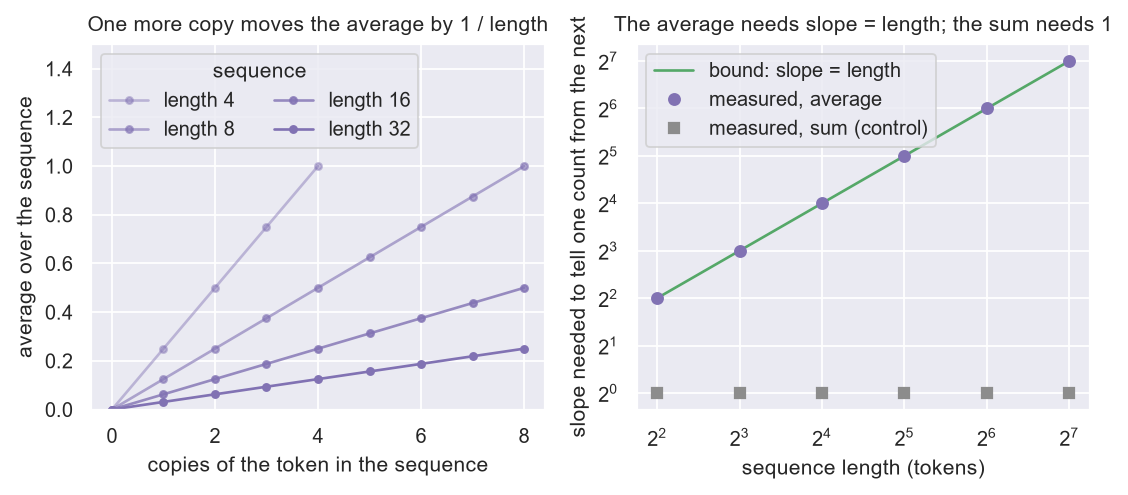
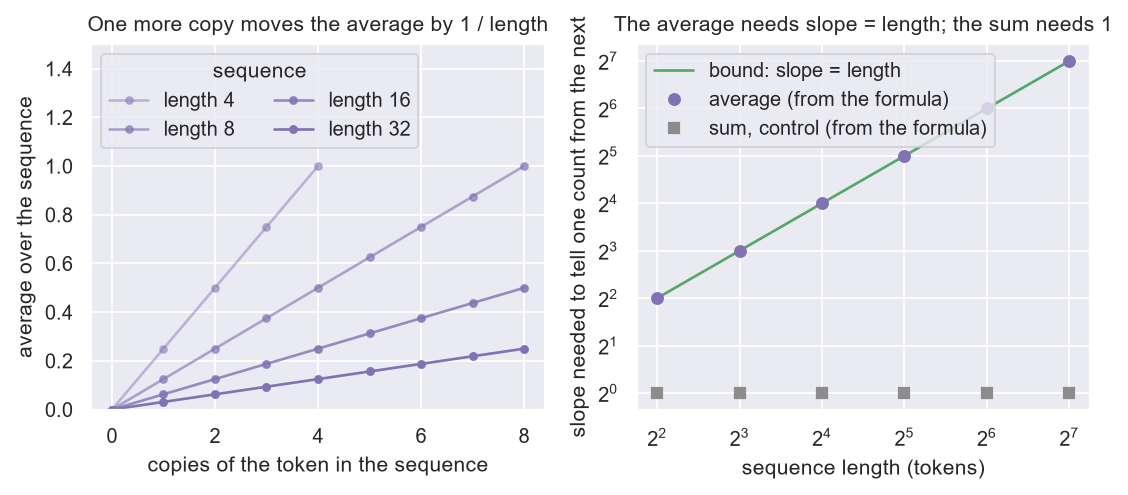
Chapter 41 notebook: audit against the new rules

Changed region(s): [[0.6206, 0.1818, 0.8998, 0.303], [0.8378, 0.0909, 0.8688, 0.1212]]

diff --git a/book/41-counting.md b/book/41-counting.md
@@ -169,26 +169,31 @@ step, and a model of limited slope can only round its corners.
 statements on small exact models, and one use of the third for an average
 over a sequence. It does not train anything. A read-out from 5 to 6 that is
 continuous said 5.5 in all four cases tried, at `fraction = 0.7071` for
-`5 + fraction²`; a read-out with a jump never came within 0.5 of it.
+`5 + fraction²`; a read-out with a jump never came within 0.500 of it.
 For the two hands, the ideal denoiser returned `(5.5, 1)` at every noise
 level from 0.1 to 10, and returned the midpoint in 200 random equidistant
-cases in 4 dimensions (largest error `4e-15`). Moved by 1 towards B, at
+cases in 4 dimensions (largest error 3.8e-15). Moved by 1 towards B, at
 noise level 1, the finger count became 5.9034, matching the
-`tanh` formula to `8e-16`. In 900 smooth models that say 5 and 6 at
+`tanh` formula to 7.8e-16. In 900 smooth models that say 5 and 6 at
 distances 0.2, 0.05 and 0.01, the largest slope times the distance was never
-below 1.16, and was exactly 1 for the straight line; for models that say 5
-and 5.5 the straight line gave 0.5, so the bound with gap 1 fails there, as
-it should.
+below 1.1649 (a straight line gives exactly 1, which holds by construction and is not
+evidence). For models that say 5 and 5.5 the smallest was 0.6649, below 1,
+so the bound with gap 1 fails there, as it should.
 
 For an average over a sequence of `length` tokens, one more copy of a
-token moves the average by `1 / length` and the slope needed to tell the
-counts apart is `length`: 4, 8, 16, 32, 64 and 128 for those lengths, all
-on the bound. A sum, the control, needs slope 1 at every length. **Measured**:
+token moves the average by `1 / length`, so by the formula the slope needed
+to tell the counts apart is `length` (4, 8, 16, 32, 64 and 128 for those
+lengths), and a sum needs 1 at every length. These come from the formula,
+not from a run. What was run is a linear program for the smallest
+worst-case count error over every read-out of the average with slope at most
+a limit. For lengths 8, 16 and 32 the error was 0 at slope limit `length`
+and 2.0000, 4.0000 and 8.0000 at half the length; from the sum with slope
+limit 1 it was 0.
 
-![Left, the average over a sequence against the number of copies, for four lengths; right, the slope needed to tell one count from the next against the length, on the bound slope = length for the average and flat at 1 for the sum](figures/41-average-against-copies.png)
+![Left, the average over a sequence against the number of copies, for four lengths; right, one over the change in the input between neighbouring counts against the length, from the formula, on the line slope = length for the average and at 1 for the sum](figures/41-average-against-copies.png)
 
 The ideal denoiser between two hands passes through 5.5 at every noise
-level; the nearest-example answer jumps. **Measured**:
+level (**measured**); the nearest-example answer jumps.
 
 ![Finger count returned by the ideal denoiser against position between two hands, at three noise levels, all through 5.5 at the middle, beside a grey step](figures/41-denoiser-passes-through-the-half.png)
 

diff --git a/book/proposals/proposal-20261117.md b/book/proposals/proposal-20261117.md
@@ -4574,7 +4574,7 @@ Chapters 16, 20, 39 and 44 were sent back to their helpers with the list. Chapte
 false sentence (the bound is not exact for two choices). `experiments/WRITING.md` now has
 three rules against these faults.
 
-Done after the review, the same day: the helpers of chapters 14, 15, 17 to 38, 40 and 43
+Done after the review, the same day: the helpers of chapters 14, 15, 17 to 38, 40, 41 and 43
 audited their own notebooks against the three rules. Checks that hold by construction are
 now printed as such and not counted, numbers from a formula are called "from the formula",
 and every cited number is printed. The two findings for chapter 28 and the three for
@@ -4582,7 +4582,7 @@ chapter 34 are fixed. This was a self-audit, not a second reader.
 
 Still owed:
 
-- **Not yet audited:** the notebooks of chapters 41, 42 and 45
+- **Not yet audited:** the notebooks of chapters 42 and 45
   to 47. Expect the same faults. Send each helper the same message, or use one reviewer per
   part with the six questions.
 - **A second reader** for the notebooks that were only self-audited, starting with chapters
